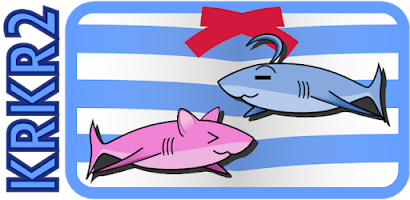
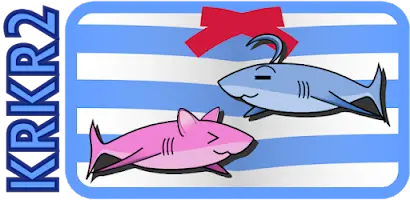
Update image formats from PNG to WEBP for improved performance and consistency across templates

diff --git a/VNDisplay/template/android_apk.html b/VNDisplay/template/android_apk.html
@@ -3,7 +3,7 @@
 
 {% block section %}
     <div
-        style="background-image:url('../static/img/background_apk.jpg'); background-size: cover; background-position: center; background-attachment: fixed; background-repeat: no-repeat;">
+        style="background-image:url('../static/img/background_apk.webp'); background-size: cover; background-position: center; background-attachment: fixed; background-repeat: no-repeat;">
         <div class="bg-intro bg-intro-android">
             <div>
                 <h2>Seccion Android APK</h2>

diff --git a/VNDisplay/template/home.html b/VNDisplay/template/home.html
@@ -3,7 +3,7 @@
 
 {% block section %}
 <div
-    style="background-image:url('static/img/Visual-Novels.jpg'); background-size: cover; background-position: center; background-attachment: fixed; background-repeat: no-repeat;">
+    style="background-image:url('static/img/Visual-Novels.webp'); background-size: cover; background-position: center; background-attachment: fixed; background-repeat: no-repeat;">
     <div class="bg-intro">
         <div>
             <h2>Novelas Visuales para pc y Android</h2>

diff --git a/VNDisplay/template/search.html b/VNDisplay/template/search.html
@@ -14,7 +14,7 @@
     {% if not posts and not apk_posts and not kirikiroid2_posts%}
         <div class="no-result-containder">
             <p>No se encontraron resultados para: {{ query }}</p>
-            <img src="{% static 'img/sadness.png' %}" alt="" draggable=false>
+            <img src="{% static 'img/sadness.webp' %}" alt="" draggable=false>
             <p>No estes triste!!</p>
         </div>
 

diff --git a/VNDisplay/template/android.html b/VNDisplay/template/android.html
@@ -13,7 +13,7 @@
     <div class="cards-container">
         <div class="novel">
             <a href="{% url 'VNDisplay:android_apk' %}">
-                <img src="{% static 'img/android.png' %}" alt="img">
+                <img src="{% static 'img/android.webp' %}" alt="img">
                 <div class="novel-info info-android">
                     <p>Android APK</p>
                 </div>
